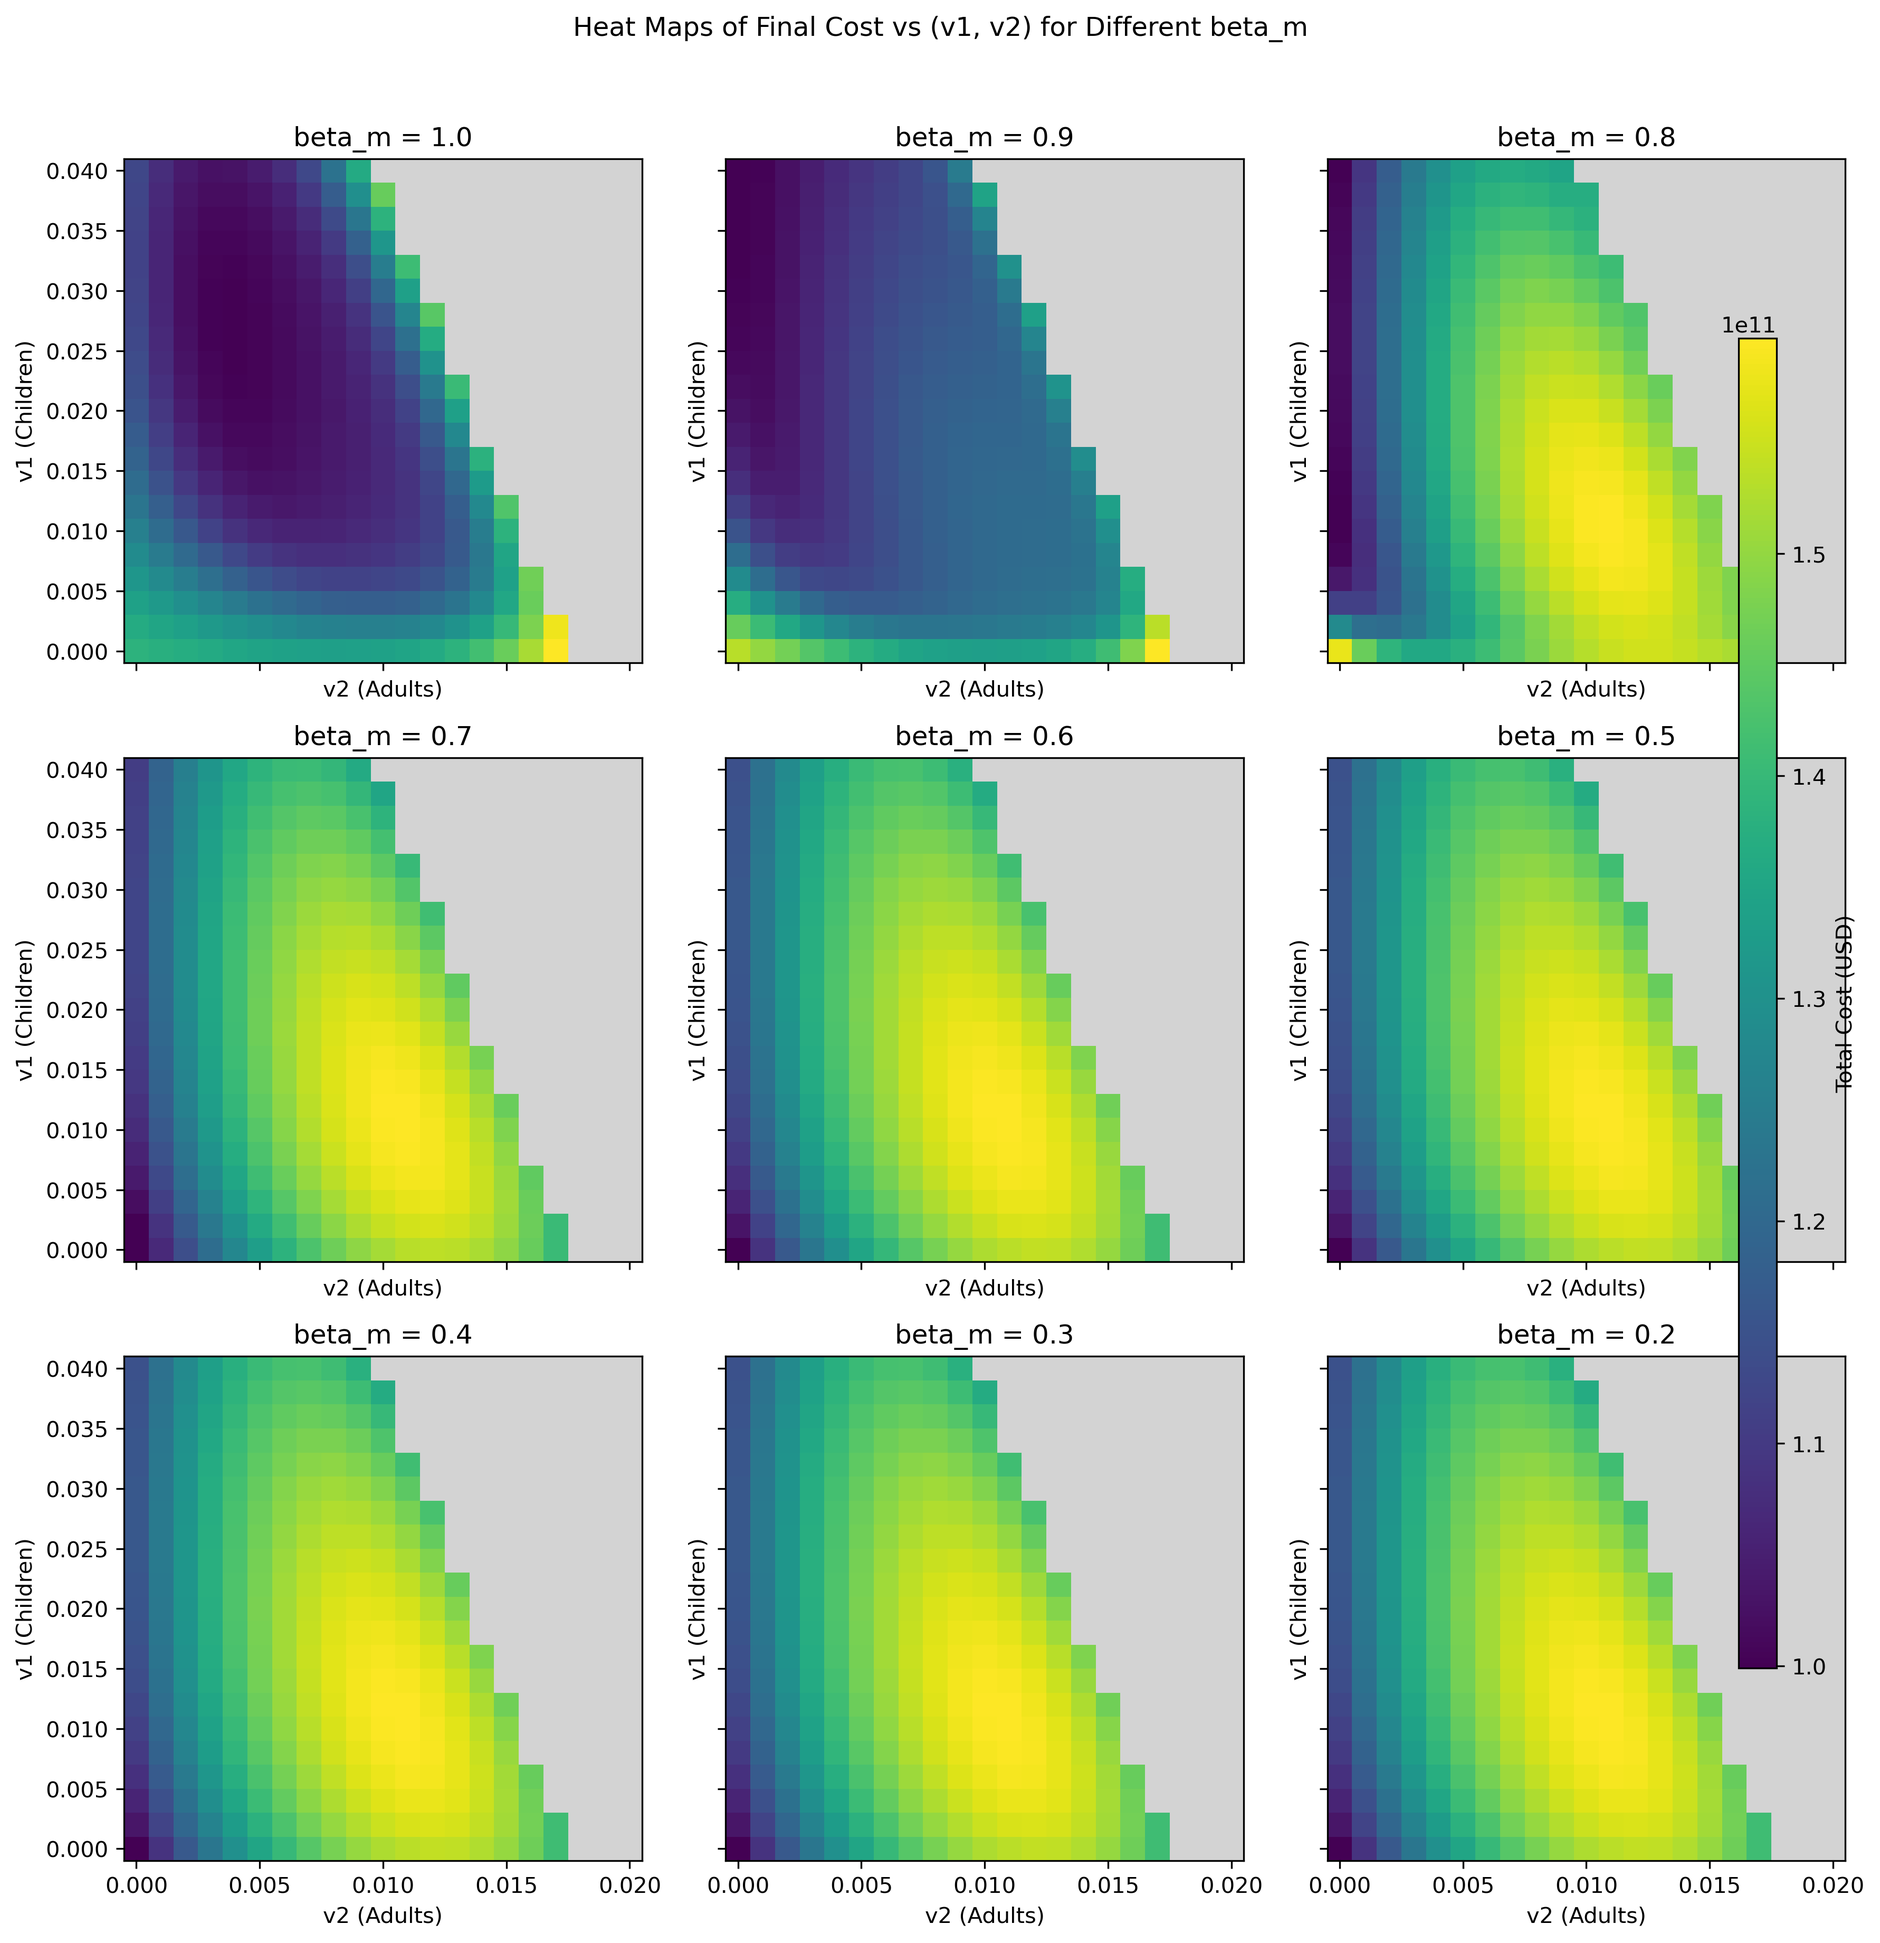
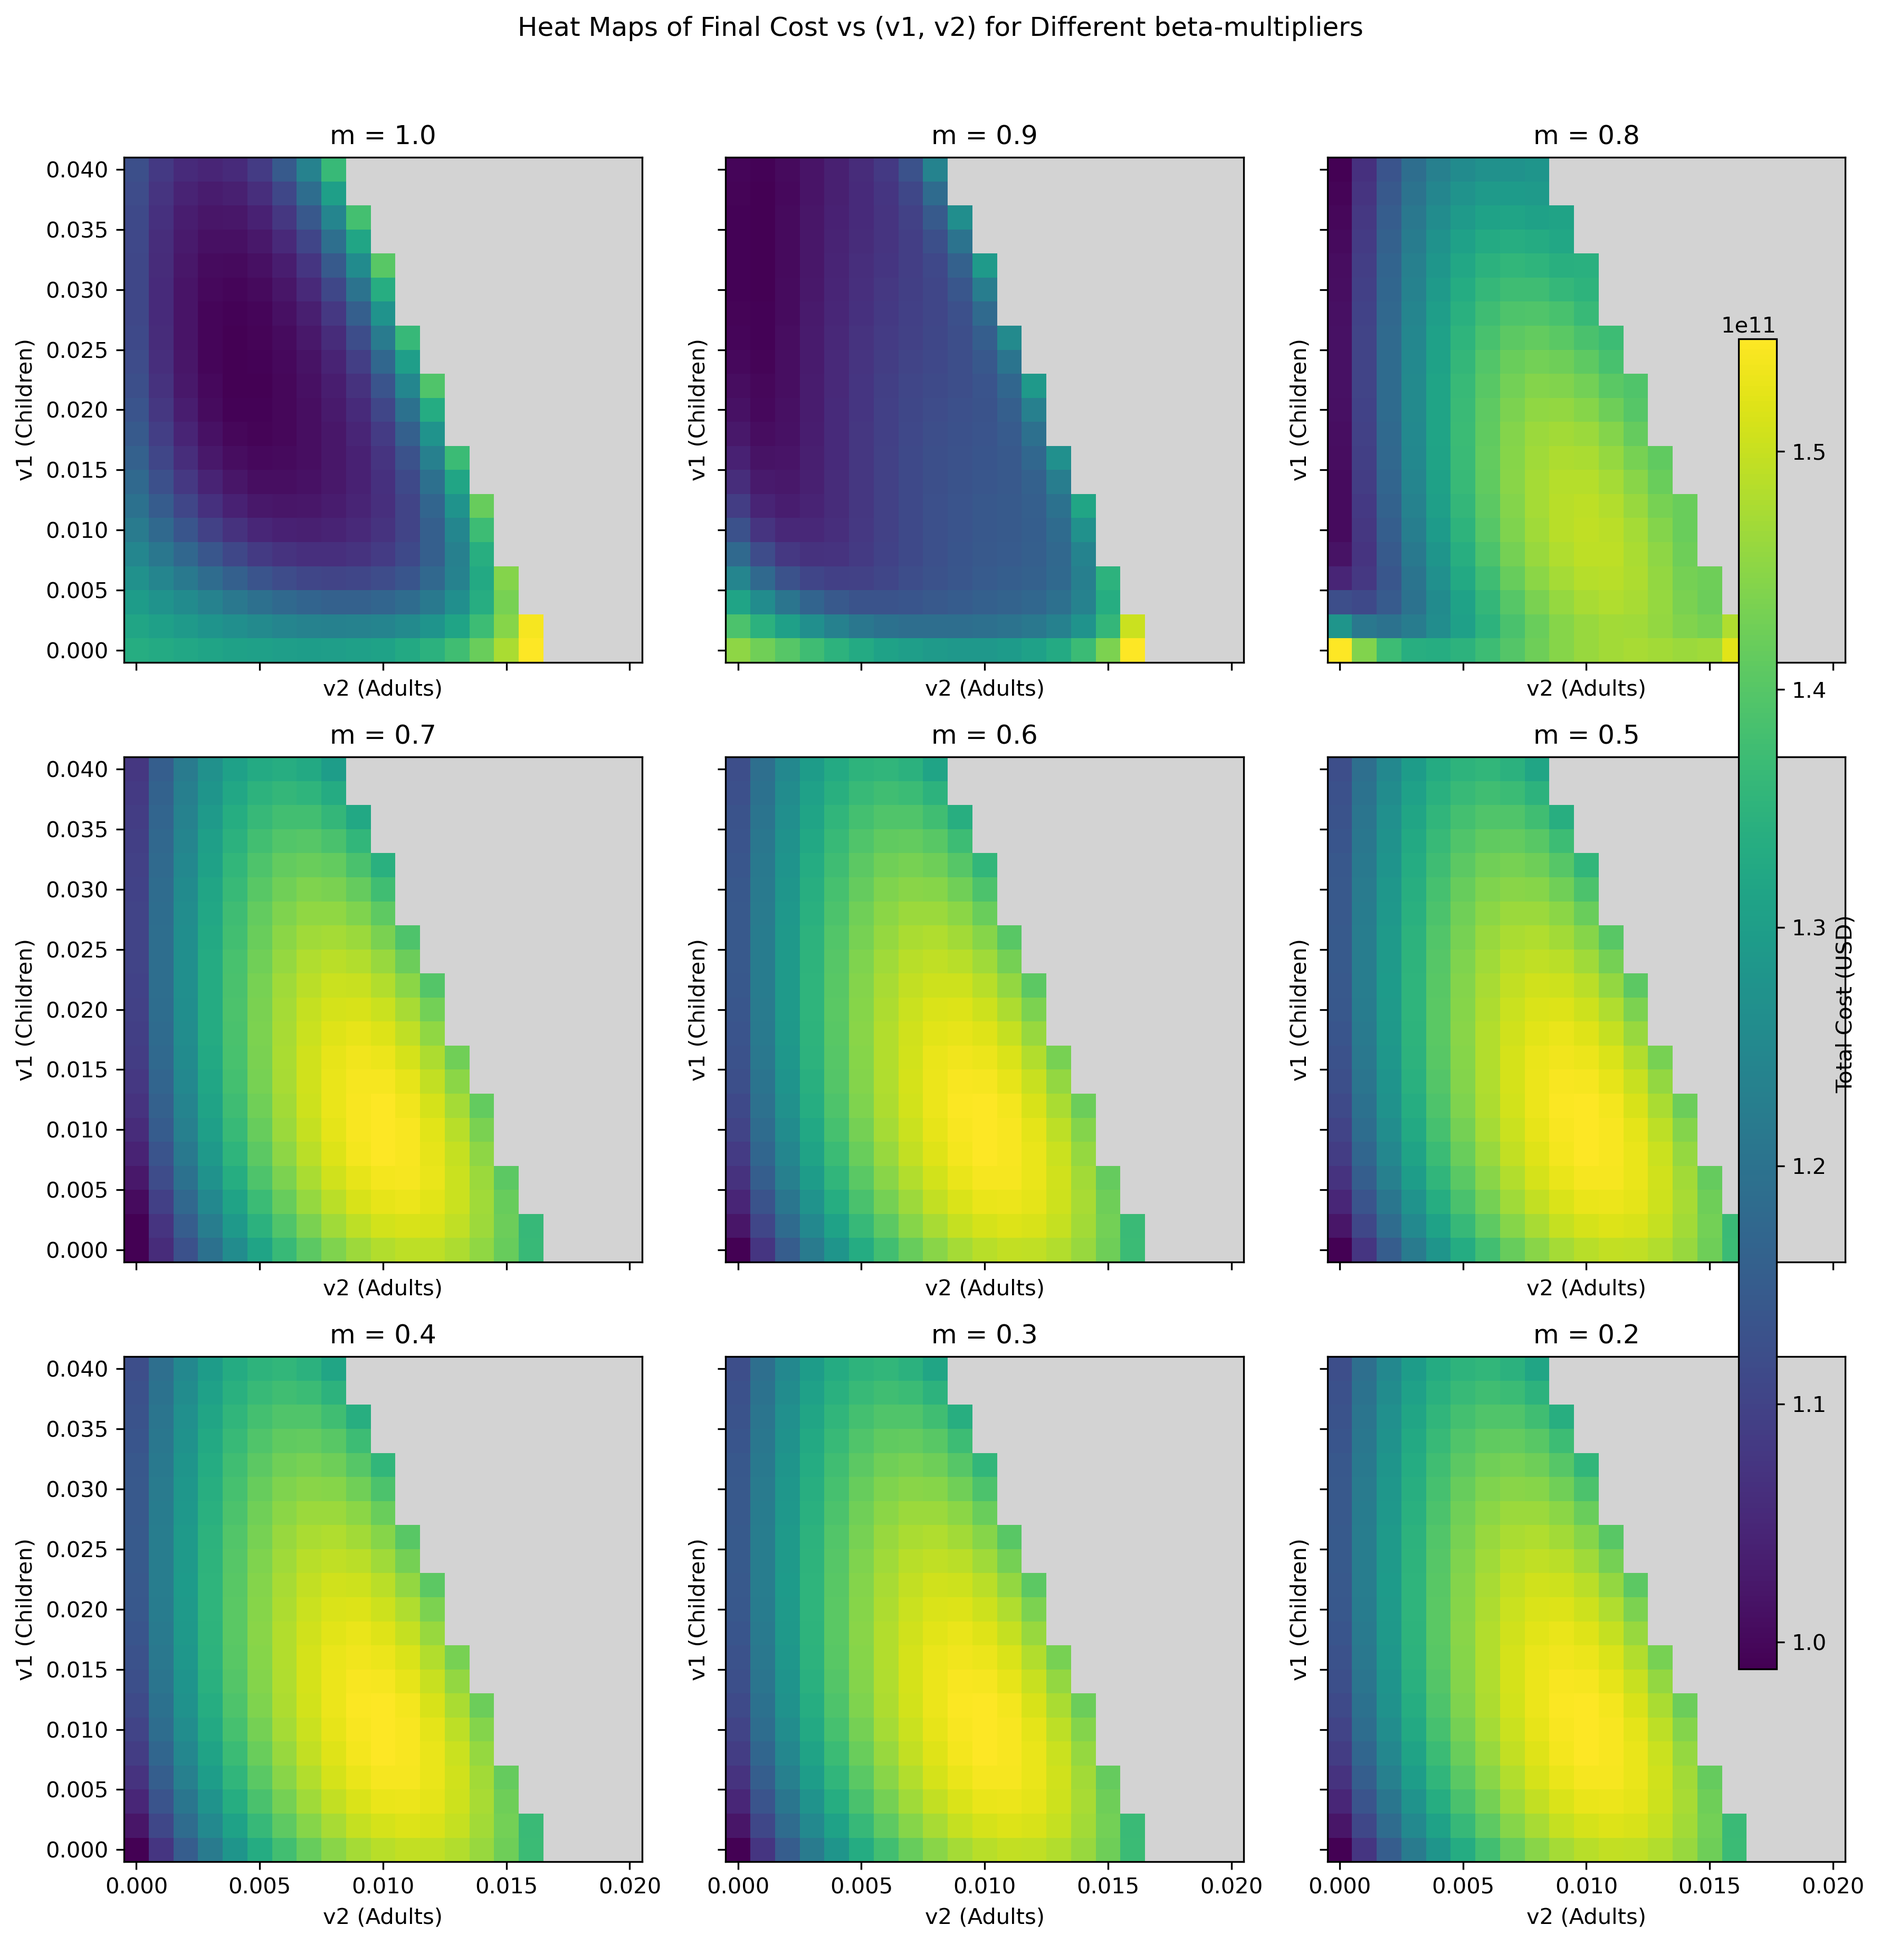
JUL15-01

diff --git a/Mathematical Modeling/Thesis modeling - epidemics and politics of public health/(3.3-1)Componetwise -(best three) Beta matrix sensetive analysis.py b/Mathematical Modeling/Thesis modeling - epidemics and politics of public health/(3.3-1)Componetwise -(best three) Beta matrix sensetive analysis.py
@@ -220,7 +220,7 @@ def plot_top3_combined():
     ax.set_xlabel("Time (days)")
     ax.set_ylabel("Total Infected")
     ax.set_title("Baseline vs. Top-3 Component-wise β Reductions (20 %)")
-    ax.legend(fontsize=10)
+    ax.legend(fontsize=14)
     ax.set_ylim(0, baseline_total.max() * 1.25)
 
     plt.tight_layout()
@@ -233,5 +233,60 @@ def plot_top3_combined():
 # plot_component_wise_beta_reduction()  # full 3×3 grid (optional)
 # plot_top3_beta_reductions()          # separate 1×3 panel (optional)
 plot_top3_combined()                   # single-axis summary (default)
+
+# ------------------------------------------------------------------
+# Single axis: baseline + all nine component-wise reductions
+# ------------------------------------------------------------------
+def plot_all9_combined():
+    """
+    Plot the baseline curve together with every β[i][j] element reduced
+    to 20 % of its original value.  The legend shows the percentage drop
+    in the peak and the peak-time delay (Δt) for each modified curve.
+    """
+    # Collect results for every element (i, j)
+    info = {}
+    for i in range(3):
+        for j in range(3):
+            t_mod, curve, peak_val, peak_t = simulate_modified_beta(i, j)
+            pct_red = (baseline_peak - peak_val) / baseline_peak * 100
+            info[(i, j)] = (pct_red, t_mod, curve, peak_val, peak_t)
+
+    # Colour palette (9 distinct colours from Matplotlib's tab10)
+    cmap    = plt.cm.get_cmap('tab10')
+    colors  = [cmap(k) for k in range(9)]
+
+    fig, ax = plt.subplots(figsize=(10, 6))
+
+    # Baseline curve
+    ax.plot(t, baseline_total, '--', color='gray', linewidth=2, label='Baseline')
+    ax.legend(fontsize=20, loc='upper right', frameon=True)
+    # Loop over the nine modified curves
+    for idx, ((i, j), (pct, t_mod, curve, peak_val, peak_t)) in enumerate(info.items()):
+        delay = peak_t - baseline_peak_time
+        ax.plot(t_mod, curve,
+                color=colors[idx], linewidth=1.8,
+                label=f'β[{i}][{j}]  Peak ↓{pct:.1f}% | Dealy: {delay:+.0f} d')
+        ax.scatter(peak_t, peak_val,
+                   s=35, color=colors[idx], edgecolor='k', zorder=5)
+
+    # Axis styling
+    ax.set_xlabel('Time (days)')
+    ax.set_ylabel('Total Infected')
+    ax.set_title('Baseline vs. All 9 Component-wise β Reductions (20 %)')
+    ax.set_ylim(0, baseline_total.max() * 1.25)
+
+    # Legend inside the plot, upper-right corner
+    ax.legend(fontsize=14, loc='upper right', frameon=True)
+
+    plt.tight_layout()
+    plt.savefig('Figures/all9_combined.png', dpi=300)
+    plt.show()
+
+
+# ------------------------------------------------------------------
+# Call the new function
+# ------------------------------------------------------------------
+plot_all9_combined()
+
 
 

diff --git a/Mathematical Modeling/Thesis modeling - epidemics and politics of public health/(9.3.1)Optimal_economic benefits in Level of SD and diff age groups_Vaccination.py b/Mathematical Modeling/Thesis modeling - epidemics and politics of public health/(9.3.1)Optimal_economic benefits in Level of SD and diff age groups_Vaccination.py
@@ -57,7 +57,9 @@ beta_base = np.array([
 
 # Daily vaccination capacity (about 1.07% of entire population)
 total_pop = np.sum(N)
-daily_vacc_capacity = 0.0107 * total_pop
+# daily_vacc_capacity = 0.0107 * total_pop
+# daily_vacc_capacity = 0.0115 * total_pop
+daily_vacc_capacity = 0.01 * total_pop
 
 # Time settings for ODE solve (e.g., 150 days)
 time_span = 150
@@ -342,8 +344,8 @@ def build_cost_array_for_fixedBM(beta_m, v1_candidates, v2_candidates):
 
 # Create heat maps for each beta_m in a 3x3 grid.
 fig, axes = plt.subplots(nrows=3, ncols=3, figsize=(12, 12), sharex=True, sharey=True)
-fig.suptitle("Heat Maps of Final Cost vs (v1, v2) for Different beta_m", y=1.02)
-
+# fig.suptitle("Heat Maps of Final Cost vs (v1, v2) for Different beta_m", y=1.02)
+fig.suptitle("Heat Maps of Final Cost vs (v1, v2) for Different beta-multipliers", y=1.02)
 pcm = None  # To hold the last pcolormesh for the colorbar
 
 for idx, bm in enumerate(beta_m_values):
@@ -359,6 +361,7 @@ for idx, bm in enumerate(beta_m_values):
     
     pc = ax.pcolormesh(X, Y, Z, cmap=cmap, shading='auto')
     ax.set_title(f"beta_m = {bm:.1f}")
+    ax.set_title(f"m = {bm:.1f}")
     ax.set_xlabel("v2 (Adults)")
     ax.set_ylabel("v1 (Children)")
     
